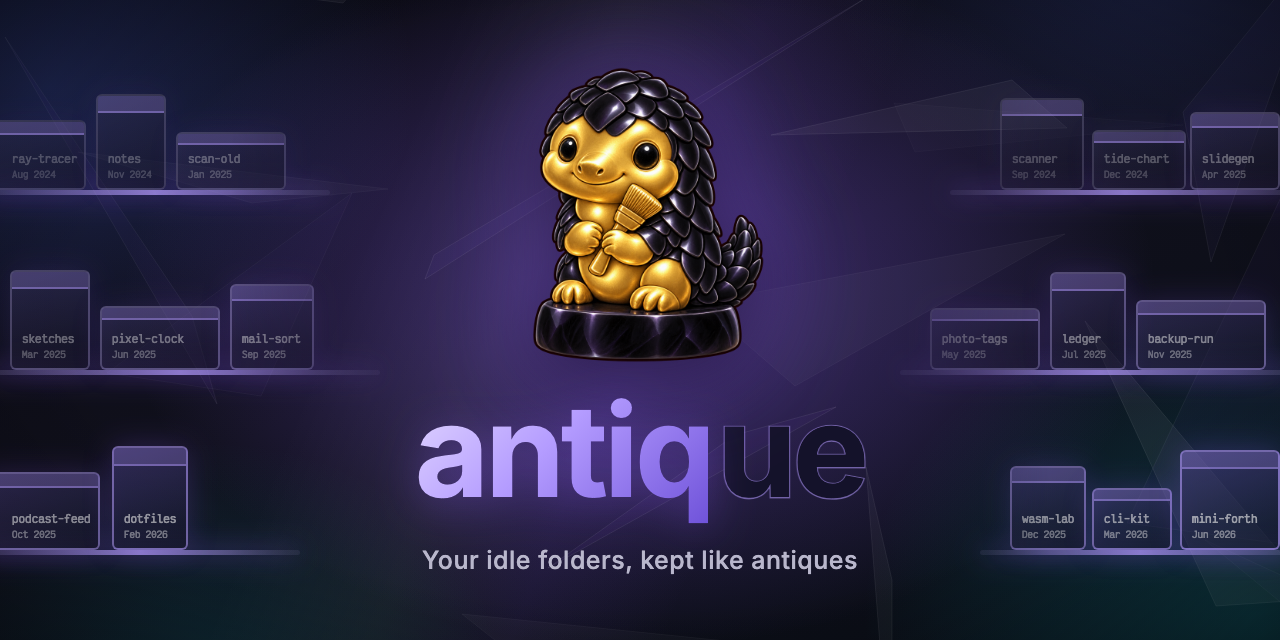
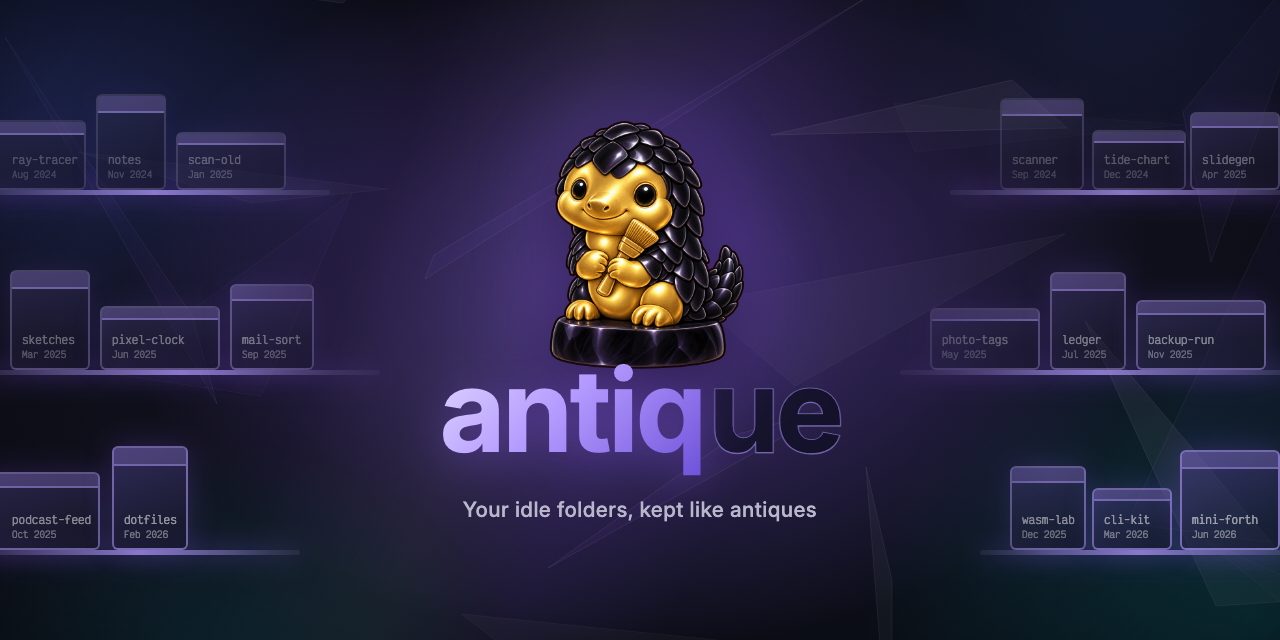
Keep the social preview image's source in the repository and render it with `just og`
The centre of the banner is smaller than before so that mascot, wordmark and
tagline stay inside the middle 484 rows GitHub shows on the repository page.

diff --git a/assets/social/og.html b/assets/social/og.html
@@ -1,0 +1,78 @@
+<!-- This Source Code Form is subject to the terms of the Mozilla Public
+     License, v. 2.0. If a copy of the MPL was not distributed with this
+     file, You can obtain one at https://mozilla.org/MPL/2.0/. -->
+<!doctype html><html><head><meta charset="utf-8">
+<title>antiq social preview</title>
+<style>
+/* Both faces are vendored under fonts/ (SIL Open Font License 1.1) so that
+   scripts/og.sh renders the same pixels without a network. */
+@font-face { font-family: "Inter"; src: url("fonts/Inter-Variable.ttf") format("truetype"); font-weight: 100 900; }
+@font-face { font-family: "Victor Mono"; src: url("fonts/VictorMono-Variable.ttf") format("truetype"); font-weight: 100 700; }
+:root { --mono: "Victor Mono", monospace; --sans: "Inter", sans-serif; }
+:root { --accent: #b49cff; --glow: #8b5cf6; --fg: #e5e5e5;
+  --c1: #ef6487; --c2: #5eca89; --c3: #f0c24b; --c4: #65aef7; --c5: #a78bfa; --c6: #43c1be; --c7: #e5e5e5; --c8: #9ca3af;
+  --c9: #ef6487; --c10: #5eca89; --c11: #fee767; --c12: #65aef7; --c13: #a78bfa; --c14: #43c1be; --c15: #fff;
+  }
+* { margin: 0; box-sizing: border-box; font-optical-sizing: none; }
+html, body { width: 1280px; height: 640px; overflow: hidden; background: #0b0b12; }
+body { position: relative; font-family: var(--sans); color: #fff; }
+.bg { position: absolute; inset: 0; background: radial-gradient(760px 520px at 50% 46%, rgba(139, 92, 246, .42), transparent 68%),radial-gradient(520px 420px at 4% 14%, rgba(79, 109, 245, .26), transparent 70%),radial-gradient(560px 460px at 98% 96%, rgba(20, 184, 198, .24), transparent 70%),radial-gradient(420px 320px at 16% 104%, rgba(20, 184, 198, .16), transparent 70%),radial-gradient(460px 320px at 90% -4%, rgba(79, 109, 245, .18), transparent 70%),linear-gradient(112deg, transparent 30%, rgba(255,255,255,.05) 41%, rgba(139, 92, 246, .09) 50%, transparent 60%),linear-gradient(160deg, #0a0a12 0%, #10101c 48%, #090d15 100%); }
+.vignette { position: absolute; inset: 0; background: radial-gradient(ellipse 80% 85% at 50% 48%, transparent 55%, rgba(0, 0, 0, .5) 100%); }
+
+.hero { position: absolute; z-index: 5; display: flex; align-items: center; justify-content: center; }
+.hero.stack { left: 0; top: 0; width: 1280px; height: 640px; flex-direction: column; }
+.hero.row { left: 0; top: 0; width: 1280px; height: 640px; gap: 30px; padding-bottom: 0; }
+.mascot { flex: none; filter: drop-shadow(0 18px 34px rgba(0,0,0,.55)) drop-shadow(0 0 44px rgba(139,92,246,.5)); }
+.stack .mascot { width: 330px; height: 330px; margin-top: 4px; }
+.row .mascot { width: 400px; height: 400px; }
+.mark { font: 700 150px/1 var(--sans); letter-spacing: -0.03em; white-space: nowrap; padding-bottom: .12em; }
+.stack .mark { margin-top: -22px; }
+.aq { background-image: linear-gradient(135deg, #e6dcff 0%, #b49cff 45%, #6c4fd8 100%);
+  -webkit-background-clip: text; background-clip: text; -webkit-text-fill-color: transparent; padding-right: .04em;
+  filter: drop-shadow(0 6px 22px rgba(139, 92, 246, .38)); }
+.ue { -webkit-text-fill-color: #14122a; -webkit-text-stroke: 3px rgba(180, 156, 255, .55); paint-order: stroke fill; }
+.tag { font: 500 25px/1 var(--sans); letter-spacing: .02em; color: #b9b7cc; }
+.stack .tag { margin-top: -6px; }
+.row .mark { font-size: 138px; }
+.row .tag { margin-top: 2px; }
+
+.side { position: absolute; inset: 0; z-index: 1; }
+.side.l { -webkit-mask-image: linear-gradient(90deg, #000 0%, #000 18%, transparent 40%); mask-image: linear-gradient(90deg, #000 0%, #000 18%, transparent 40%); }
+.side.r { -webkit-mask-image: linear-gradient(270deg, #000 0%, #000 18%, transparent 40%); mask-image: linear-gradient(270deg, #000 0%, #000 18%, transparent 40%); }
+
+.gcard { position: absolute; width: 400px; height: 96px; display: flex; align-items: center; gap: 16px; padding-left: 24px; border-radius: 16px;
+  background: linear-gradient(135deg, rgba(40, 36, 66, .6), rgba(16, 16, 26, .5)); box-shadow: 0 0 0 1px rgba(139, 92, 246, .35), 0 0 50px rgba(139, 92, 246, .12);
+  opacity: .7; filter: blur(.6px); }
+.gstem { font: 600 24px/1.2 var(--mono); color: #fff; } .gmeta { font: 500 14px/1.6 var(--mono); color: #9ca3af; }
+
+.trail { position: absolute; top: 0; width: 2px; height: 640px; background: linear-gradient(180deg, transparent, rgba(180, 156, 255, .7) 20%, rgba(139, 92, 246, .5) 80%, transparent); }
+.tdot { position: absolute; width: 20px; height: 20px; border-radius: 50%; background: #12121c; border: 3px solid var(--accent); box-shadow: 0 0 18px rgba(139, 92, 246, .8); }
+.tdot.a { border-color: var(--c3); box-shadow: 0 0 18px rgba(240, 194, 75, .6); }
+.tdot.g { border-color: var(--c2); background: var(--c2); box-shadow: 0 0 18px rgba(94, 202, 137, .6); }
+.tlabel { position: absolute; font: 600 17px/1 var(--mono); color: rgba(201, 205, 224, .75); }
+.year { position: absolute; font: 800 230px/1 var(--sans); letter-spacing: -0.04em; color: transparent; -webkit-text-stroke: 2px rgba(139, 92, 246, .3); }
+
+.board { position: absolute; height: 5px; border-radius: 3px; background: linear-gradient(90deg, rgba(180, 156, 255, .15), rgba(180, 156, 255, .75), rgba(180, 156, 255, .15)); box-shadow: 0 0 26px rgba(139, 92, 246, .7); }
+.abox { position: absolute; border-radius: 6px; border: 2px solid rgba(180, 156, 255, .55); background: linear-gradient(160deg, rgba(60, 48, 110, .5), rgba(20, 18, 36, .5));
+  box-shadow: 0 0 30px rgba(139, 92, 246, .22); overflow: hidden; }
+.abox::before { content: ""; position: absolute; left: 0; right: 0; top: 0; height: 16%; background: rgba(180, 156, 255, .22); border-bottom: 2px solid rgba(180, 156, 255, .4); }
+.abox span { position: absolute; left: 10px; bottom: 8px; font: 600 15px/1 var(--mono); color: rgba(229, 229, 229, .7); }
+.abox.solid { background: linear-gradient(160deg, rgba(48, 40, 84, .92), rgba(16, 15, 28, .94)); }
+.boxes { -webkit-mask-image: linear-gradient(0deg, #000 0%, #000 30%, transparent 80%) !important; mask-image: linear-gradient(0deg, #000 0%, #000 30%, transparent 80%) !important; }
+
+
+.shafts { position: absolute; inset: 0; z-index: 1; mix-blend-mode: screen; }
+.mote { position: absolute; border-radius: 50%; background: #e6dcff; z-index: 2; box-shadow: 0 0 8px rgba(200, 180, 255, .9); }
+
+.stack .mascot { width: 296px; height: 296px; margin-top: 0; }
+.stack .mark { font-size: 128px; margin-top: 24px; }
+.stack .tag { margin-top: 18px; }
+.abox span { font-size: 11px; letter-spacing: 0; line-height: 1.25; }
+.abox span small { display: block; font-size: 9.2px; margin-top: 2px; opacity: .75; }
+.abox.hole::after { content: ""; position: absolute; left: 50%; top: 34%; width: 26px; height: 8px; margin-left: -13px;
+  border-radius: 4px; background: rgba(10, 10, 18, .7); box-shadow: inset 0 1px 2px rgba(0, 0, 0, .8); }
+.stack .mascot{width:250px;height:250px} .stack .mark{font-size:114px;margin-top:-16px} .stack .tag{font-size:21px}</style></head><body>
+<div class="bg"></div><svg width="1280" height="640" style="position:absolute;inset:0"><polygon points="735,435 836,407 548,568" fill="rgba(139, 92, 246,0.046)" stroke="rgba(255,255,255,0.073)" stroke-width="1"/><polygon points="1205,540 1408,707 1443,650" fill="rgba(139, 92, 246,0.029)" stroke="rgba(255,255,255,0.047)" stroke-width="1"/><polygon points="1291,176 1349,553 1127,523" fill="rgba(139, 92, 246,0.034)" stroke="rgba(255,255,255,0.055)" stroke-width="1"/><polygon points="1319,599 1216,606 1085,321" fill="rgba(255, 255, 255,0.050)" stroke="rgba(255,255,255,0.079)" stroke-width="1"/><polygon points="1067,128 1012,80 771,135" fill="rgba(255, 255, 255,0.042)" stroke="rgba(255,255,255,0.067)" stroke-width="1"/><polygon points="775,646 535,672 462,614" fill="rgba(255, 255, 255,0.026)" stroke="rgba(255,255,255,0.042)" stroke-width="1"/><polygon points="5,37 217,404 192,316" fill="rgba(139, 92, 246,0.034)" stroke="rgba(255,255,255,0.054)" stroke-width="1"/><polygon points="434,255 869,-4 425,279" fill="rgba(139, 92, 246,0.044)" stroke="rgba(255,255,255,0.070)" stroke-width="1"/><polygon points="1211,262 1328,-67 1183,112" fill="rgba(139, 92, 246,0.038)" stroke="rgba(255,255,255,0.061)" stroke-width="1"/><polygon points="107,373 352,193 261,396" fill="rgba(139, 92, 246,0.025)" stroke="rgba(255,255,255,0.040)" stroke-width="1"/><polygon points="-163,359 -162,313 -0,334" fill="rgba(255, 255, 255,0.038)" stroke="rgba(255,255,255,0.061)" stroke-width="1"/><polygon points="866,467 892,799 892,580" fill="rgba(255, 255, 255,0.041)" stroke="rgba(255,255,255,0.066)" stroke-width="1"/><polygon points="894,103 915,152 1183,125" fill="rgba(255, 255, 255,0.017)" stroke="rgba(255,255,255,0.027)" stroke-width="1"/><polygon points="252,203 388,189 78,152" fill="rgba(255, 255, 255,0.025)" stroke="rgba(255,255,255,0.040)" stroke-width="1"/><polygon points="233,-11 343,3 402,-65" fill="rgba(255, 255, 255,0.045)" stroke="rgba(255,255,255,0.072)" stroke-width="1"/><polygon points="699,303 795,386 1065,234" fill="rgba(255, 255, 255,0.027)" stroke="rgba(255,255,255,0.044)" stroke-width="1"/></svg><div class="vignette"></div>
+<div class="side l"><div class="board" style="left:-20px;width:350px;top:190px"></div><div class="abox" style="left:-10px;top:120px;width:96px;height:70px;border-color:rgba(144,140,170,0.24);background:linear-gradient(160deg,rgba(68,62,105,0.28),rgba(20,18,36,.5));box-shadow:0 0 30px rgba(139,92,246,0.07)"><span style="left:20px;color:rgba(229,229,229,0.26)">ray-tracer<small>Aug 2024</small></span></div><div class="abox" style="left:96px;top:94px;width:70px;height:96px;border-color:rgba(146,141,174,0.26);background:linear-gradient(160deg,rgba(68,63,107,0.29),rgba(20,18,36,.5));box-shadow:0 0 30px rgba(139,92,246,0.08)"><span style="left:10px;color:rgba(229,229,229,0.28)">notes<small>Nov 2024</small></span></div><div class="abox" style="left:176px;top:132px;width:110px;height:58px;border-color:rgba(150,142,184,0.30);background:linear-gradient(160deg,rgba(70,63,112,0.33),rgba(20,18,36,.5));box-shadow:0 0 30px rgba(139,92,246,0.10)"><span style="left:10px;color:rgba(229,229,229,0.33)">scan-old<small>Jan 2025</small></span></div><div class="board" style="left:-20px;width:400px;top:370px"></div><div class="abox" style="left:10px;top:270px;width:80px;height:100px;border-color:rgba(156,145,198,0.36);background:linear-gradient(160deg,rgba(72,64,119,0.37),rgba(20,18,36,.5));box-shadow:0 0 30px rgba(139,92,246,0.13)"><span style="left:10px;color:rgba(229,229,229,0.39)">sketches<small>Mar 2025</small></span></div><div class="abox" style="left:100px;top:306px;width:120px;height:64px;border-color:rgba(160,147,208,0.40);background:linear-gradient(160deg,rgba(73,65,124,0.40),rgba(20,18,36,.5));box-shadow:0 0 30px rgba(139,92,246,0.15)"><span style="left:10px;color:rgba(229,229,229,0.43)">pixel-clock<small>Jun 2025</small></span></div><div class="abox" style="left:230px;top:284px;width:84px;height:86px;border-color:rgba(164,149,217,0.44);background:linear-gradient(160deg,rgba(74,65,128,0.43),rgba(20,18,36,.5));box-shadow:0 0 30px rgba(139,92,246,0.17)"><span style="left:10px;color:rgba(229,229,229,0.47)">mail-sort<small>Sep 2025</small></span></div><div class="board" style="left:-20px;width:320px;top:550px"></div><div class="abox" style="left:-20px;top:472px;width:120px;height:78px;border-color:rgba(170,152,231,0.50);background:linear-gradient(160deg,rgba(76,66,135,0.47),rgba(20,18,36,.5));box-shadow:0 0 30px rgba(139,92,246,0.20)"><span style="left:30px;color:rgba(229,229,229,0.54)">podcast-feed<small>Oct 2025</small></span></div><div class="abox" style="left:112px;top:446px;width:76px;height:104px;border-color:rgba(176,154,246,0.56);background:linear-gradient(160deg,rgba(78,67,143,0.52),rgba(20,18,36,.5));box-shadow:0 0 30px rgba(139,92,246,0.23)"><span style="left:10px;color:rgba(229,229,229,0.60)">dotfiles<small>Feb 2026</small></span></div></div><div class="side r"><div class="board" style="left:950px;width:350px;top:190px"></div><div class="abox" style="left:1000px;top:98px;width:84px;height:92px;border-color:rgba(145,140,171,0.25);background:linear-gradient(160deg,rgba(68,62,105,0.29),rgba(20,18,36,.5));box-shadow:0 0 30px rgba(139,92,246,0.07)"><span style="left:10px;color:rgba(229,229,229,0.27)">scanner<small>Sep 2024</small></span></div><div class="abox" style="left:1092px;top:130px;width:94px;height:60px;border-color:rgba(148,142,179,0.28);background:linear-gradient(160deg,rgba(69,63,109,0.31),rgba(20,18,36,.5));box-shadow:0 0 30px rgba(139,92,246,0.09)"><span style="left:10px;color:rgba(229,229,229,0.30)">tide-chart<small>Dec 2024</small></span></div><div class="abox" style="left:1190px;top:112px;width:90px;height:78px;border-color:rgba(154,144,193,0.34);background:linear-gradient(160deg,rgba(71,64,116,0.35),rgba(20,18,36,.5));box-shadow:0 0 30px rgba(139,92,246,0.12)"><span style="left:10px;color:rgba(229,229,229,0.37)">slidegen<small>Apr 2025</small></span></div><div class="board" style="left:900px;width:400px;top:370px"></div><div class="abox" style="left:930px;top:308px;width:110px;height:62px;border-color:rgba(158,146,203,0.38);background:linear-gradient(160deg,rgba(72,64,121,0.39),rgba(20,18,36,.5));box-shadow:0 0 30px rgba(139,92,246,0.14)"><span style="left:10px;color:rgba(229,229,229,0.41)">photo-tags<small>May 2025</small></span></div><div class="abox" style="left:1050px;top:272px;width:76px;height:98px;border-color:rgba(162,148,212,0.42);background:linear-gradient(160deg,rgba(74,65,126,0.42),rgba(20,18,36,.5));box-shadow:0 0 30px rgba(139,92,246,0.16)"><span style="left:10px;color:rgba(229,229,229,0.45)">ledger<small>Jul 2025</small></span></div><div class="abox" style="left:1136px;top:300px;width:130px;height:70px;border-color:rgba(168,151,226,0.48);background:linear-gradient(160deg,rgba(76,66,133,0.46),rgba(20,18,36,.5));box-shadow:0 0 30px rgba(139,92,246,0.19)"><span style="left:10px;color:rgba(229,229,229,0.51)">backup-run<small>Nov 2025</small></span></div><div class="board" style="left:980px;width:320px;top:550px"></div><div class="abox" style="left:1010px;top:466px;width:76px;height:84px;border-color:rgba(172,152,236,0.52);background:linear-gradient(160deg,rgba(77,66,138,0.49),rgba(20,18,36,.5));box-shadow:0 0 30px rgba(139,92,246,0.21)"><span style="left:10px;color:rgba(229,229,229,0.56)">wasm-lab<small>Dec 2025</small></span></div><div class="abox" style="left:1092px;top:488px;width:80px;height:62px;border-color:rgba(176,154,246,0.56);background:linear-gradient(160deg,rgba(78,67,143,0.52),rgba(20,18,36,.5));box-shadow:0 0 30px rgba(139,92,246,0.23)"><span style="left:10px;color:rgba(229,229,229,0.60)">cli-kit<small>Mar 2026</small></span></div><div class="abox" style="left:1180px;top:450px;width:100px;height:100px;border-color:rgba(180,156,255,0.60);background:linear-gradient(160deg,rgba(80,68,147,0.55),rgba(20,18,36,.5));box-shadow:0 0 30px rgba(139,92,246,0.25)"><span style="left:10px;color:rgba(229,229,229,0.64)">mini-forth<small>Jun 2026</small></span></div></div>
+<div class="hero stack"><img class="mascot" src="../mascot-1536.png" alt=""><div class="mark"><span class="aq">antiq</span><span class="ue">ue</span></div><div class="tag">Your idle folders, kept like antiques</div></div>
+</body></html>
